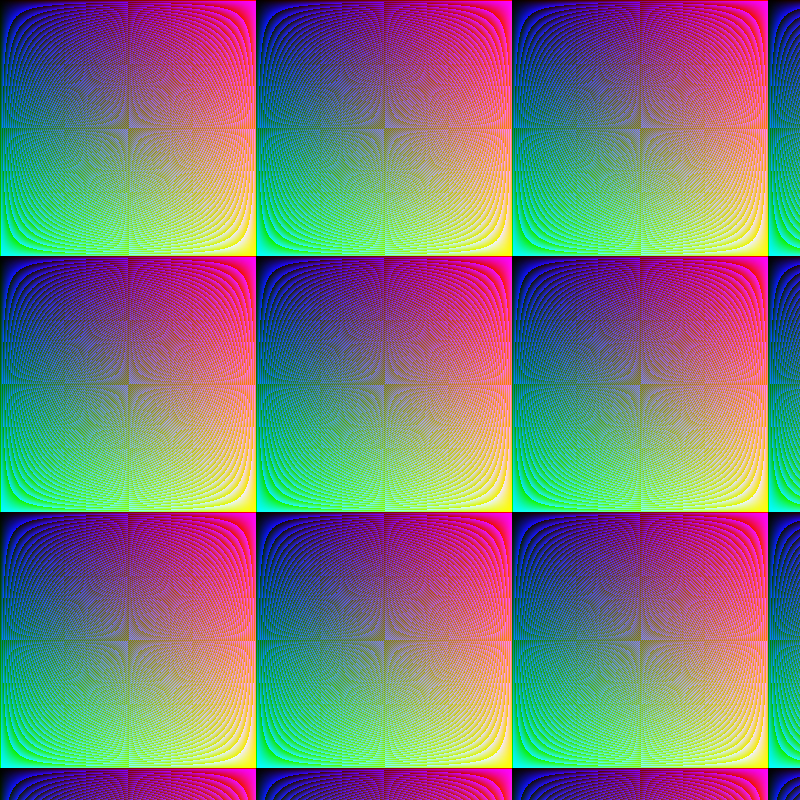
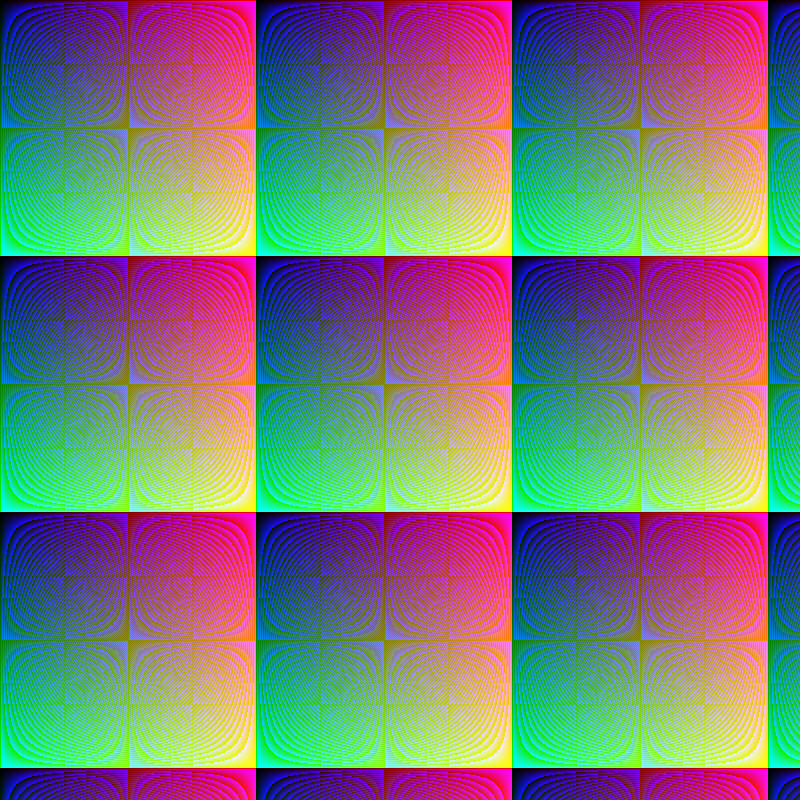
experimenting w/ quality levels

diff --git a/Tests/ImgTests.cpp b/Tests/ImgTests.cpp
@@ -3,7 +3,7 @@
 #include "image/BlockedImage.h"
 #include <iostream>
 
-static uint8_t QUALITY = 100u;
+static uint8_t QUALITY = 70u;
 
 static void doBlockingTest(const char* filename)
 {
